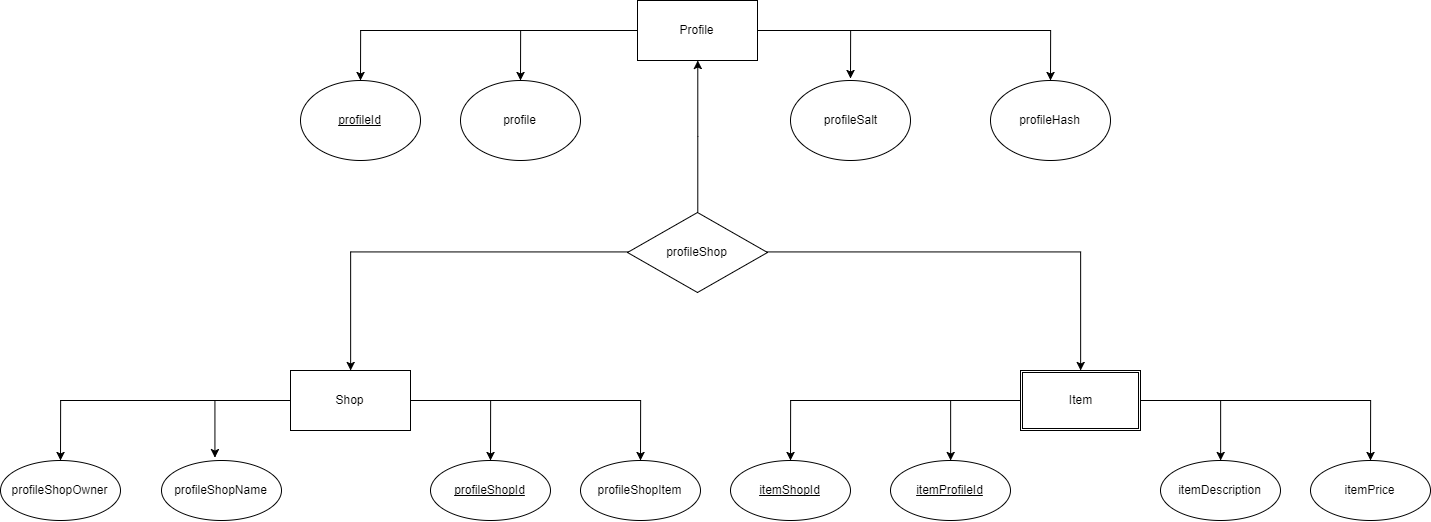
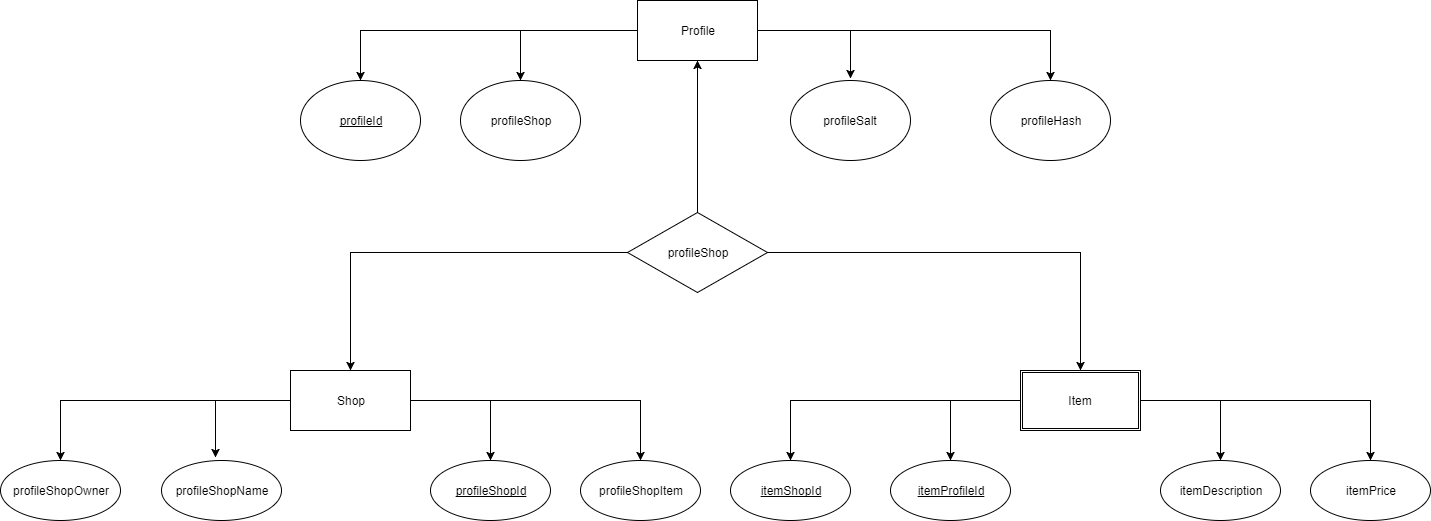
,updated relationship in conceptual design,updated table to calrify relationship, added relationship model, added stylesheet for table and relationship model

diff --git a/epic/stylesheet.css b/epic/stylesheet.css
@@ -1,4 +1,6 @@
-
+body{
+	margin: auto;
+}
 table{
 	border: 1px solid black;
 	text-align: left;
@@ -12,7 +14,8 @@ thead{
 	background-color: black;
 	color: white;
 }
-img{
-	height: 50%;
-	width: 50%;
+body {
+	width: 85%;
+	margin: auto 0;
+
 }
